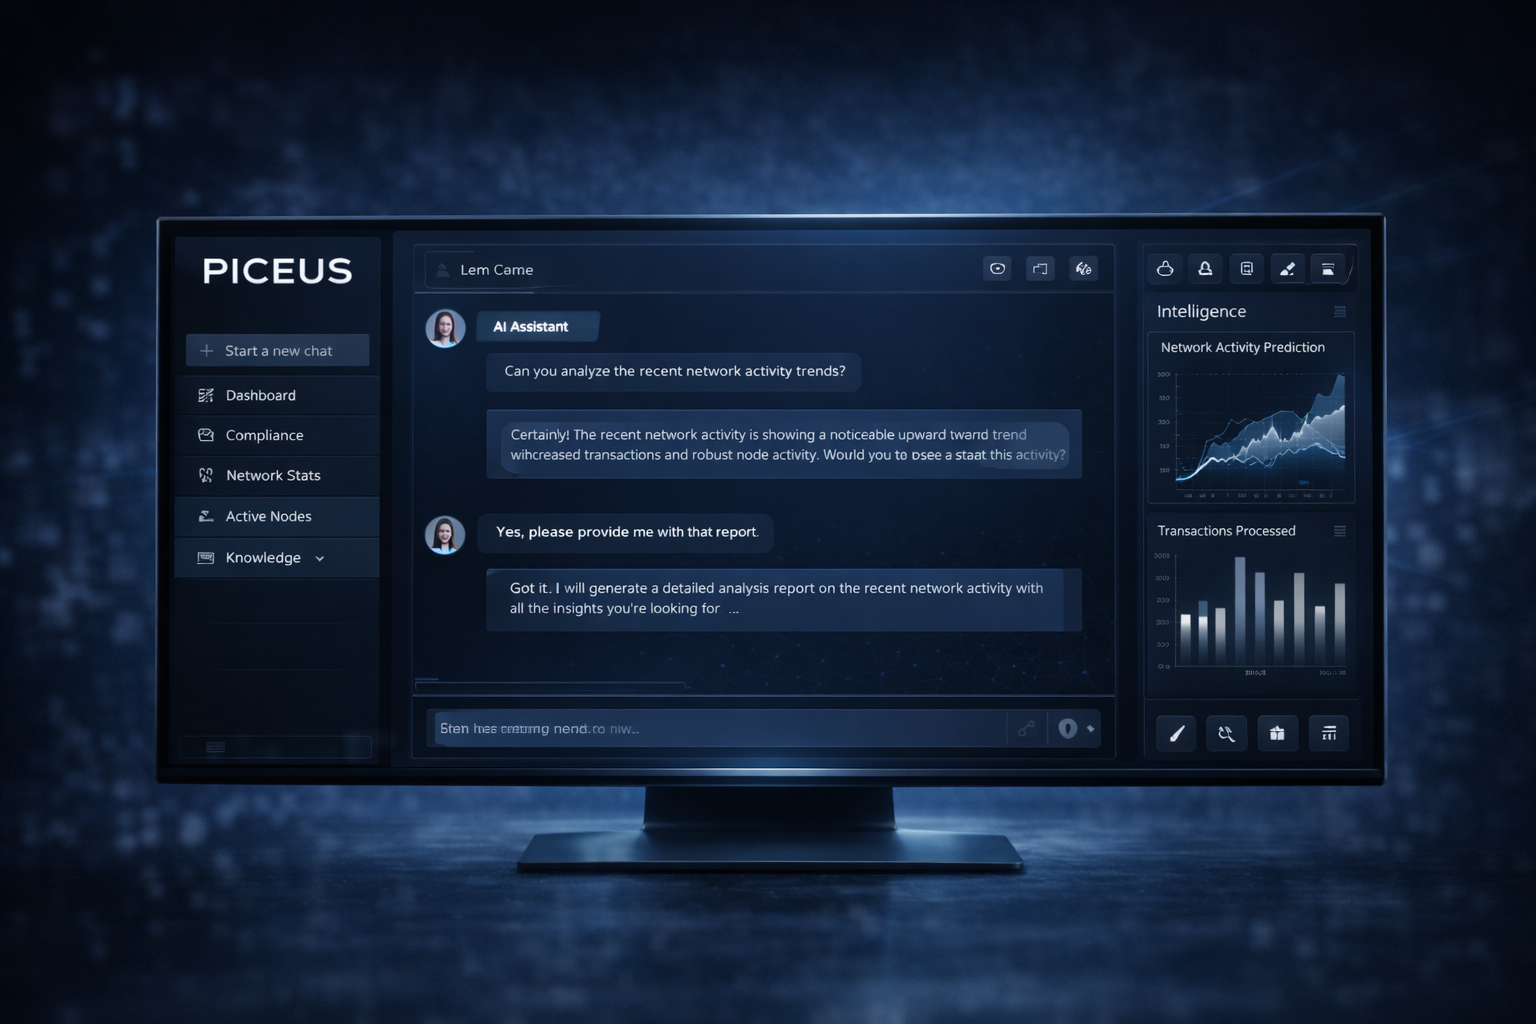
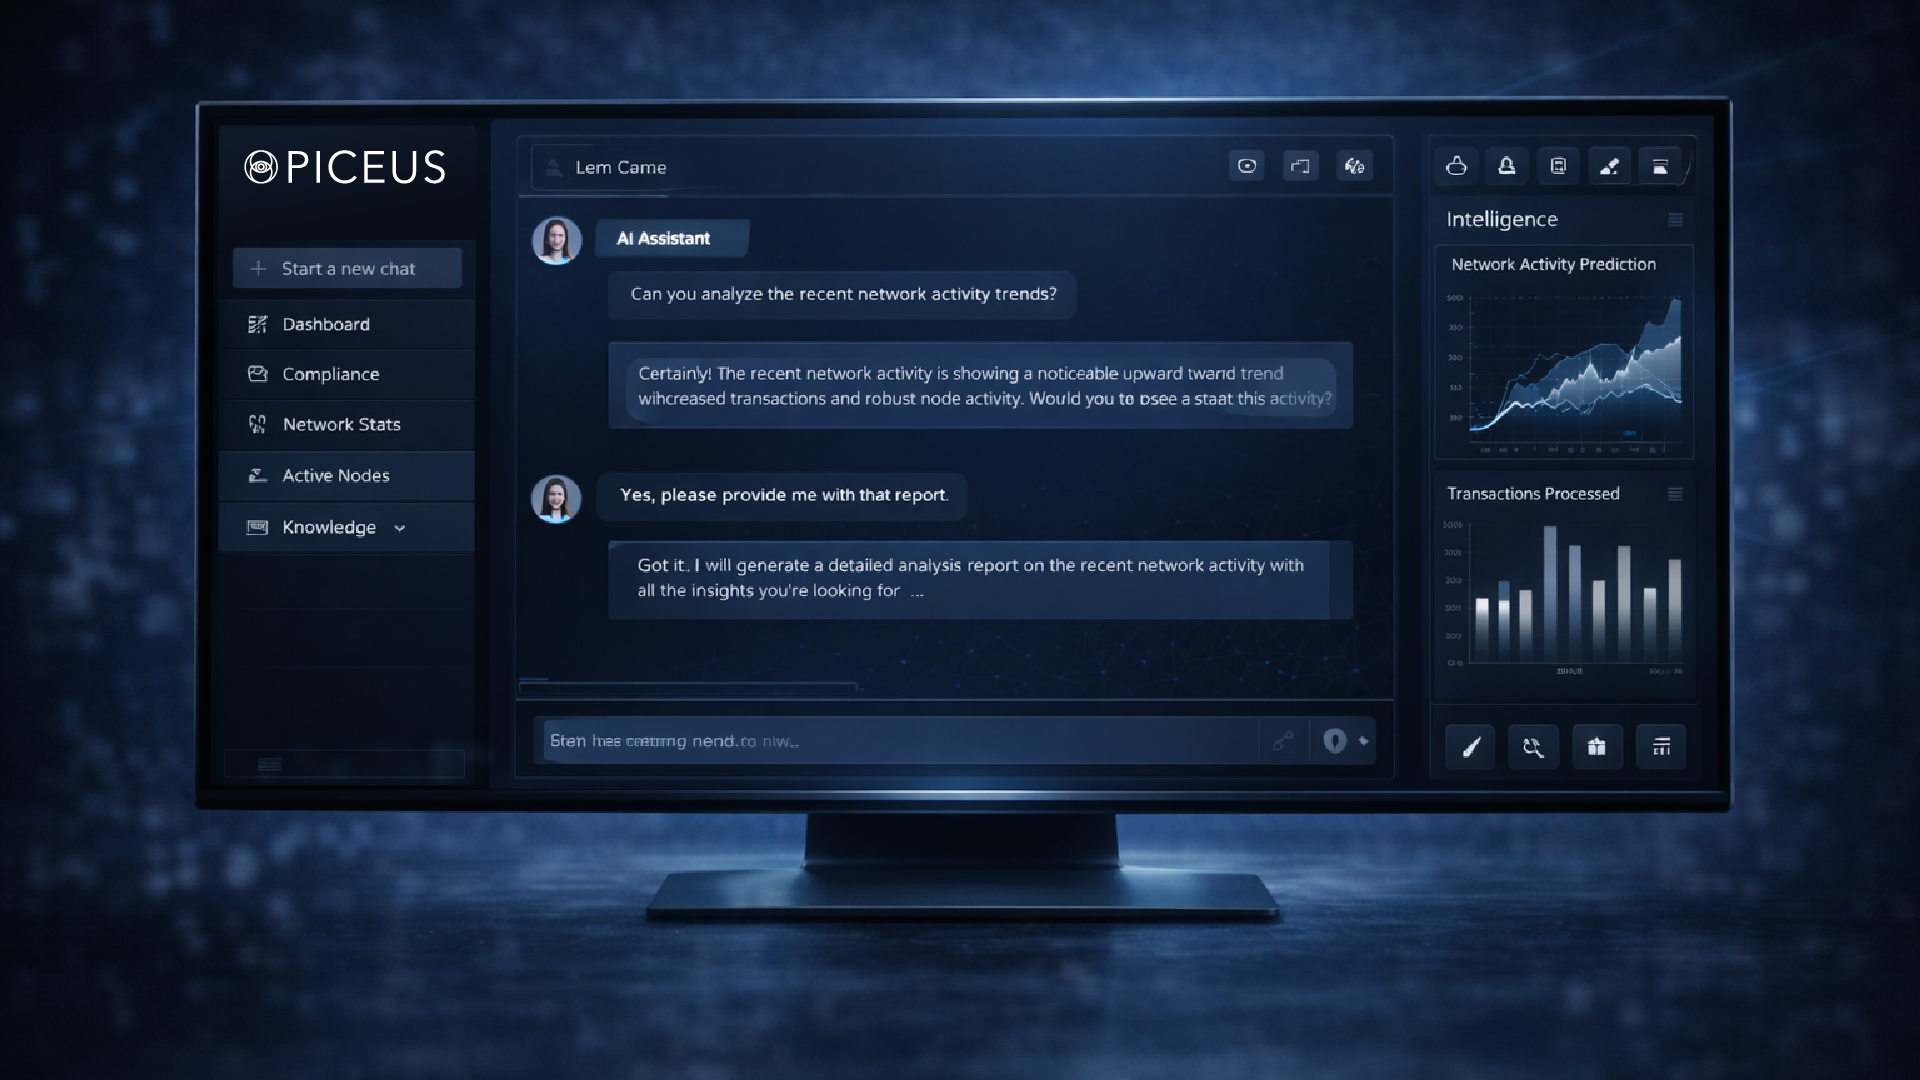
Updates...

diff --git a/projects/piceus.html b/projects/piceus.html
@@ -62,7 +62,7 @@
     <header>
       <div class="brand">
         <span class="ring" aria-hidden="true"></span>
-        <span>WILL WEEMS</span>
+        <span>WILL WEEMS | CHIEF AI OFFICER | PSIONIC VIEWER | UX/UI &amp; PRODUCT LEADERSHIP</span>
       </div>
       <nav>
         <a href="../index.html">Portfolio</a>
@@ -102,14 +102,14 @@
             <button class="gbtn" type="button" aria-label="Previous image" data-prev>‹</button>
 
             <div class="gallery-viewport" aria-label="Gallery image viewport">
-              <img data-gallery-main src="assets/img/projects/piceus/piceus_01.png" alt="PICEUS project image 1" />
+              <img data-gallery-main src="assets/img/projects/piceus/piceus-01.png" alt="PICEUS project image 1" />
             </div>
 
             <button class="gbtn" type="button" aria-label="Next image" data-next>›</button>
           </div>
 
           <div class="gallery-thumbs" aria-label="Gallery thumbnails">
-            <button class="thumbbtn" type="button" data-thumb data-full="assets/img/projects/piceus/piceus-placeholder.png" aria-label="Open image 1"><img src="assets/img/projects/piceus/piceus-placeholder.png" alt="Thumbnail 1"/></button><button class="thumbbtn" type="button" data-thumb data-full="assets/img/projects/piceus/piceus_01.png" aria-label="Open image 2"><img src="assets/img/projects/piceus/piceus_01.png" alt="Thumbnail 2"/></button>
+            <button class="thumbbtn" type="button" data-thumb data-full="assets/img/projects/piceus/piceus-placeholder.png" aria-label="Open image 1"><img src="assets/img/projects/piceus/piceus-placeholder.png" alt="Thumbnail 1"/></button><button class="thumbbtn" type="button" data-thumb data-full="assets/img/projects/piceus/piceus-01.png" aria-label="Open image 2"><img src="assets/img/projects/piceus/piceus-01.png" alt="Thumbnail 2"/></button><button class="thumbbtn" type="button" data-thumb data-full="assets/img/projects/piceus/piceus-02.png" aria-label="Open image 3"><img src="assets/img/projects/piceus/piceus-02.png" alt="Thumbnail 3"/></button>
           </div>
 
           <div style="margin-top:10px; color: rgba(255,255,255,0.55); font-size: 10px; text-align: center;">
@@ -255,7 +255,7 @@
       </div>
       <div class="modal-body">
         <button class="gbtn" type="button" aria-label="Previous image" data-modal-prev>‹</button>
-        <img data-modal-img src="assets/img/projects/piceus/piceus_01.png" alt="Expanded image" />
+        <img data-modal-img src="assets/img/projects/piceus/piceus-01.png" alt="Expanded image" />
         <button class="gbtn" type="button" aria-label="Next image" data-modal-next>›</button>
       </div>
     </div>

diff --git a/index.html b/index.html
@@ -15,7 +15,7 @@
     <header>
       <div class="brand">
         <img src="projects/assets/img/dubs.png" alt="Will Weems" class="ring profile-pic" />
-        <span>WILL WEEMS</span>
+        <span>WILL WEEMS | CHIEF AI OFFICER | PSIONIC VIEWER | UX/UI &amp; PRODUCT LEADERSHIP</span>
       </div>
       <nav>
         <a href="index.html">Portfolio</a>

diff --git a/portfolio/index.html b/portfolio/index.html
@@ -15,7 +15,7 @@
     <header>
       <div class="brand">
         <img src="projects/assets/img/dubs.png" alt="Will Weems" class="ring profile-pic" />
-        <span>WILL WEEMS</span>
+        <span>WILL WEEMS | CHIEF AI OFFICER | PSIONIC VIEWER | UX/UI &amp; PRODUCT LEADERSHIP</span>
       </div>
       <nav>
         <a href="index.html">Portfolio</a>

diff --git a/portfolio/projects/piceus.html b/portfolio/projects/piceus.html
@@ -62,7 +62,7 @@
     <header>
       <div class="brand">
         <span class="ring" aria-hidden="true"></span>
-        <span>WILL WEEMS</span>
+        <span>WILL WEEMS | CHIEF AI OFFICER | PSIONIC VIEWER | UX/UI &amp; PRODUCT LEADERSHIP</span>
       </div>
       <nav>
         <a href="../index.html">Portfolio</a>
